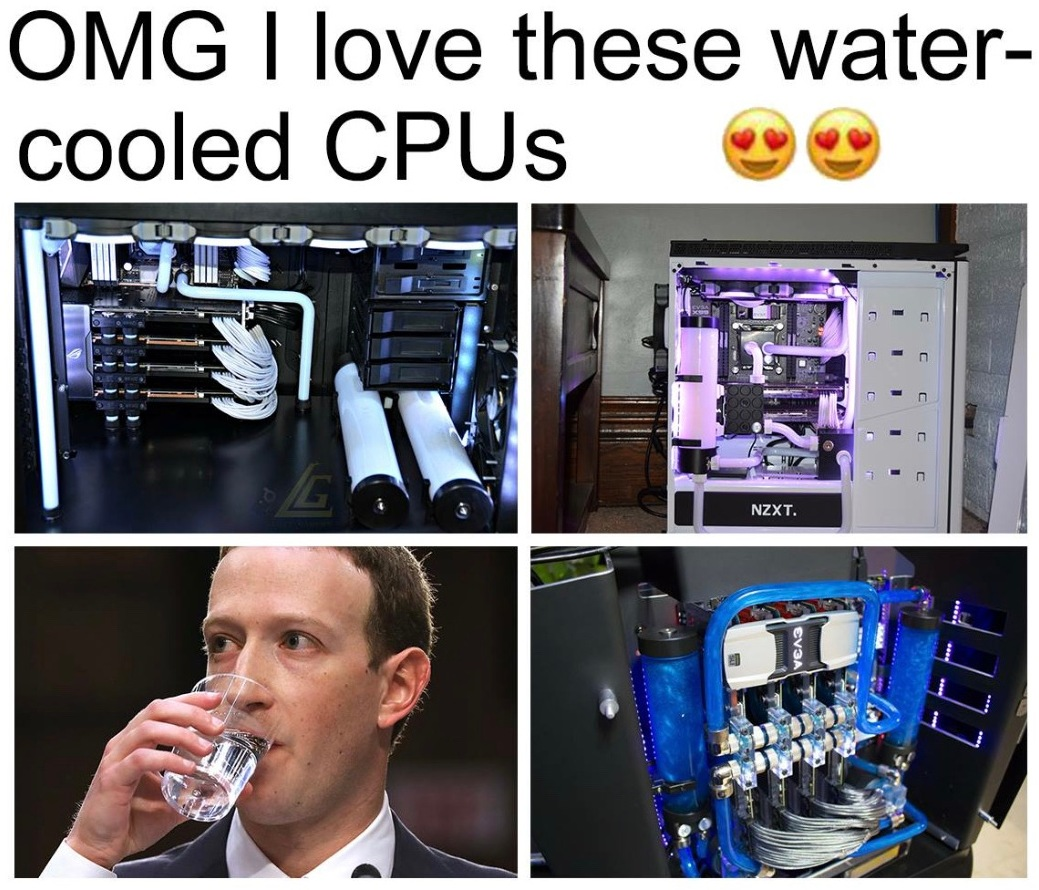
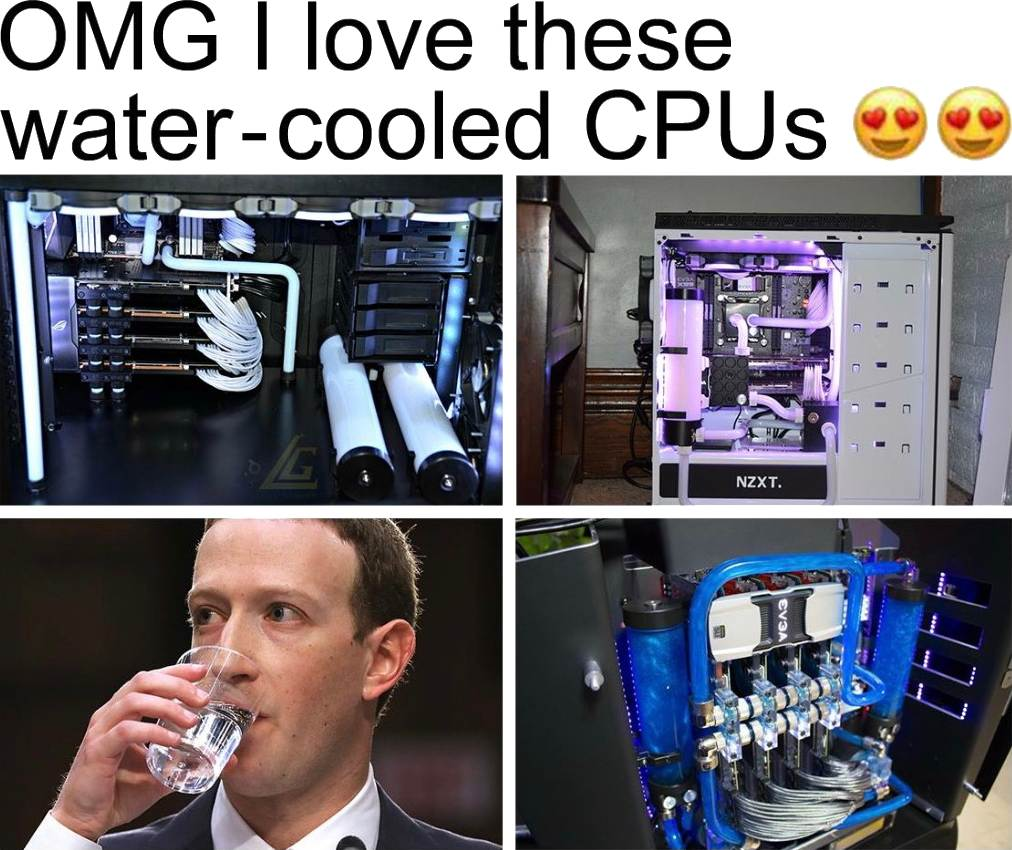
changes media height to 180px, tweaks zucc, tweaks image sizes

diff --git a/profile/1.html b/profile/1.html
@@ -115,10 +115,6 @@
         <td>"People pray to the gods for good health, and yet most of them consistently act in such a way as to damage their health." <a href="https://www.goodreads.com/book/show/13112139-diogenes-the-cynic" class="tinylink">[↗]</a></td>
       </tr>
       <tr>
-        <td>Rick Sanchez</td>
-        <td>"To live is to risk it all. Otherwise you're just an inert chunk of randomly assembled molecules drifting wherever the universe blows you." <a href="https://www.imdb.com/title/tt5218256/" class="tinylink">[↗]</a></td>
-      </tr>
-      <tr>
         <td>Paul Lockhart</td>
         <td>"If there is no sharing of excitement and wonder, if teachers themselves are passive recipients of information, what hope is there for their students?" <a href="https://www.maa.org/external_archive/devlin/LockhartsLament.pdf" class="tinylink">[↗]</a></td>
       </tr>
@@ -143,6 +139,10 @@
         <td>"You should not be disgusted, or lose heart, or give up if you are not wholly successful in accomplishing every action according to correct principles, but when you are thwarted, return to the struggle, and be well contented if for the most part your actions are worthier of human nature." <a href="https://www.goodreads.com/book/show/18890487-meditations" class="tinylink">[1]</a><a class= "tinylink" href="https://www.youtube-nocookie.com/embed/5897dMWJiSM">[2]</a></td>
       </tr>
       <tr>
+        <td>Diogenes of Sinope <sup>(404-323 BC)</sup></td>
+        <td>"(...) my choicest possession of all is, as you can observe, that I am always at my leisure, so that I can go off and see what is worth seeing, or hear what is worth hearing, and, what I value first and foremost, I can spend the whole day at leisure with Socrates here. And he likewise does not reserve his admiration for those who can come up with the most money, but spends his time in the company of those whom he finds pleasing." <a href="https://www.goodreads.com/book/show/13112139-diogenes-the-cynic" class="tinylink">[↗]</a></td>
+      </tr>
+      <tr>
         <td>Chuck Palahniuk</td>
         <td>"Advertising has us chasing cars and clothes, working jobs we hate so we can buy shit we don't need. We're the middle children of history. No purpose or place. We have no Great War, no Great Depression. Our great war is a spiritual war. Our great depression is our lives. We've all been raised on television to believe that one day we'd all be millionaires and movie gods and rock stars, but we won't. We're slowly learning that fact. And we're very, very pissed off." <a href="https://www.goodreads.com/quotes/747996-advertising-has-us-chasing-cars-and-clothes-working-jobs-we" class="tinylink">[↗]</a></td>
       </tr>
@@ -155,10 +155,10 @@
       <iframe src="https://www.youtube-nocookie.com/embed/tHEOGrkhDp0" frameborder="0" allow="encrypted-media; picture-in-picture" allowfullscreen></iframe>
     </div>
     <div class="inline-block">
-      <a href="../img/earthsunscale_c.jpg" title="https://svs.gsfc.nasa.gov/11198#"><img src="../img/earthsunscale_c.jpg" alt="earth to sun scale"></a>
+      <a href="../img/EarthToScale.jpg" title="https://svs.gsfc.nasa.gov/11198#"><img src="../img/EarthToScale-240x180.jpg" alt="earth to sun scale"></a>
     </div>
     <div class="inline-block">
-      <a href="https://www.flickr.com/photos/brecht_vandenbroucke/5781965075/"><img src="../img/Check-in by Brecht Vandenbroucke_c.jpg" title="By Brecht Vandenbroucke."
+      <a href="https://www.flickr.com/photos/brecht_vandenbroucke/5781965075/"><img src="../img/check-in-brecht-vdb-180x180.jpg" title="By Brecht Vandenbroucke."
               alt="Guy walking through airport zigzag waiting line demarcation cords, without fucks given."></a>
     </div><br>
 

diff --git a/css/style.css b/css/style.css
@@ -79,7 +79,7 @@ tr:hover {
 }
 
 .index-media iframe, .index-media img {
-  height: 190px;  
+  height: 180px;  
 }
 
 .index-description {
@@ -188,11 +188,11 @@ tr:hover {
 }
 
 .profile-media iframe, .profile-media img {
-  height: 190px;  
+  height: 180px;  
 }
 
 .vimeo {
-  width: 337px;
+  width: 319px;
 }
 
 /*————————————————————————————————————————————————————————————————*/

diff --git a/index.html b/index.html
@@ -69,7 +69,7 @@
     </div>
     <div class="inline-block">
       <a href="https://www.urbandictionary.com/define.php?term=Zucc"><h2>Zucc.</h2></a>
-      <a href="./img/zucc.jpg"><img src="./img/zucc-222x190.png" alt="Zuckerberg douche."></a>
+      <a href="./img/zucc.jpg"><img src="./img/zucc-214x180.png" alt="Zuckerberg douche."></a>
     </div>
   </div>
 
